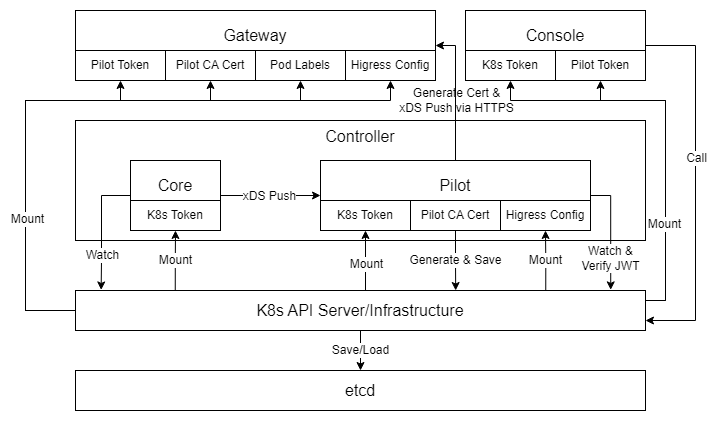
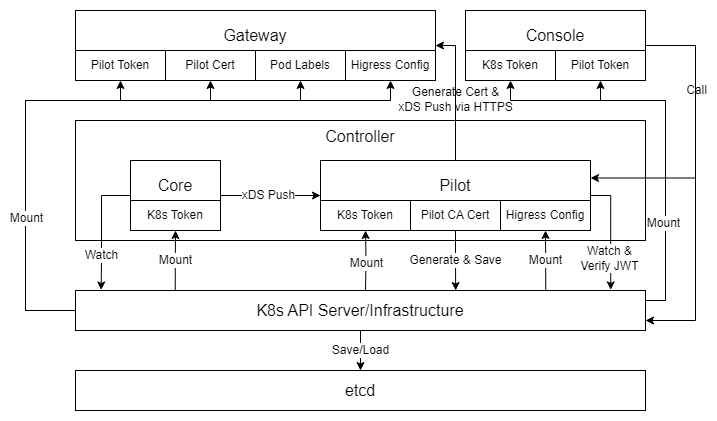
doc: Update design

diff --git a/docs/design.md b/docs/design.md
@@ -31,15 +31,15 @@
 1. Mock K8s API Server + Nacos：为了尽可能的不修改 Higress 的代码，所以我们仍旧保持了使用 K8s API 来进行资源管理的方式。这里参考了 K8s 官方开源的 sample-apiserver 和 apiserver-build-alpha 搭建了一个可以独立运行的“伪” K8s API Server。同时，后端存储也则从 etcd 换成了同为阿里开源配置中心 Nacos。关于配置模型部分，大家可以查阅 [Nacos 配置模型设计](./nacos.md) 文档；
 2. Docker Volumes：Docker Volumes 替换了之前 K8s 内置的 Volume Mount，用来向各个容器下发配置数据。所有的配置数据都会以文件的形式保存在对应的 Volume 中。而这些文件的来源就是另一个新增组件：Initializer；
 3. Initializer：这是个非驻留的容器。在整个系统启动的时候，它会在所有 Higress 组件前启动，负责初始化 Nacos 和各个 Volume 中的数据，包括 API Server 所使用的证书、访问 K8s API 所使用的 kubeconfig 文件、Pilot 的 Root Cert 和 CA Cert、各种 JWT Token 以及 Nacos 中的基础配置等等。在完成以上初始化工作后，它就会退出；
-4. File Server：这是一个很奇怪的组件。在部署在 K8s 中时，JWT Token 的认证是通过访问K8s API 来完成。目前我们的 K8s API 暂时还不具备这一功能，而且 JWT Token 的下发也不是由 K8s 基础设施完成的，所以我们为 Pilot 选择了一个不依赖 K8s API 的 Token 认证方式，也就是通过一个外部传入的 JWK 来进行认证。但这个 JWK 并不支持静态配置到环境变量或文件中，必须通过一个 URL 来运行时加载。所以 Initializer 会将这组 JWK 数据保存在一个 Docker Volume 中。这个 Volume 会挂载到 File Server 上。这样 Pilot 就可以访问 File Server 来拿到这组 JWK 了；
-5. ~~Pilot Token~~：这个 Pilot Token 说的不是右上角给 Console 使用的，而是正上方 Gateway 原本使用的。这个 Token 会用在 Gateway 像 Pilot 申请证书时。但这一部分的认证机制目前暂时还没有完全研究透。所以 Gateway 和 Pilot 之前见的 xDS 通信从之前的 HTTPS 协议改为了 HTTP 协议。这样就不再需要申请证书了，所以也就不需要挂载这个 Token 了。
+4. ~~Pilot Token~~：图中一共有两个 Pilot Token
+    1. Gateway 使用 Pilot Token 用来从 Pilot 获取请求 xDS 所需的客户端证书。由于在独立版中，这一证书由 Initializer 负责生成，所以 Gateway 中的证书申请功能已被关闭，自然也就不再需要这个 Token了；
+    2. 在 K8s 中，Console 在请求 Pilot 的 debug 接口时需要传递一个 Token 进行认证。在独立班中，Pilot 的 debug 接口认证功能已被关闭，所以就不再需要这个 Token了。
 
 ## 代码结构
 
 - apiserver：Mock K8s API Server 的代码
 - compose：Docker Compose 配置目录
   - env：保存各个容器的环境变量配置
-  - fileServer：保存 File Server 的容器配置
   - initContainer：保存 Initializer 的容器配置
 
 ## 参考资料
